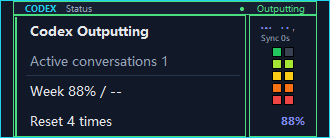
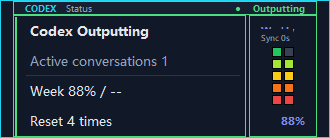
polish: strengthen hud status hierarchy

Changed region(s): [[0.697, 0.029, 0.9394, 0.1159]]

diff --git a/scripts/ui/main_window.py b/scripts/ui/main_window.py
@@ -350,7 +350,7 @@ class Pet(tk.Tk):
         )
         self.hud_title.configure(font=(*header_font, "bold"))
         self.status_title.configure(font=header_font)
-        self.hud_status.configure(font=header_font)
+        self.hud_status.configure(font=(*header_font, "bold"))
         self.hud_status_dot.configure(font=header_font)
         signal_title_font = self._font_spec(
             FONT_FAMILY,

diff --git a/tests/test_ui_redesign.py b/tests/test_ui_redesign.py
@@ -521,8 +521,10 @@ class UiRedesignTests(unittest.TestCase):
 
             activity_font = tkfont.Font(root=app, font=app.text.labels["activity"].cget("font"))
             progress_font = tkfont.Font(root=app, font=app.text.labels["progress"].cget("font"))
+            status_font = tkfont.Font(root=app, font=app.hud_status.cget("font"))
             self.assertEqual(activity_font.cget("weight"), "bold")
             self.assertEqual(progress_font.cget("weight"), "normal")
+            self.assertEqual(status_font.cget("weight"), "bold")
         finally:
             self.destroy_app(app)
 